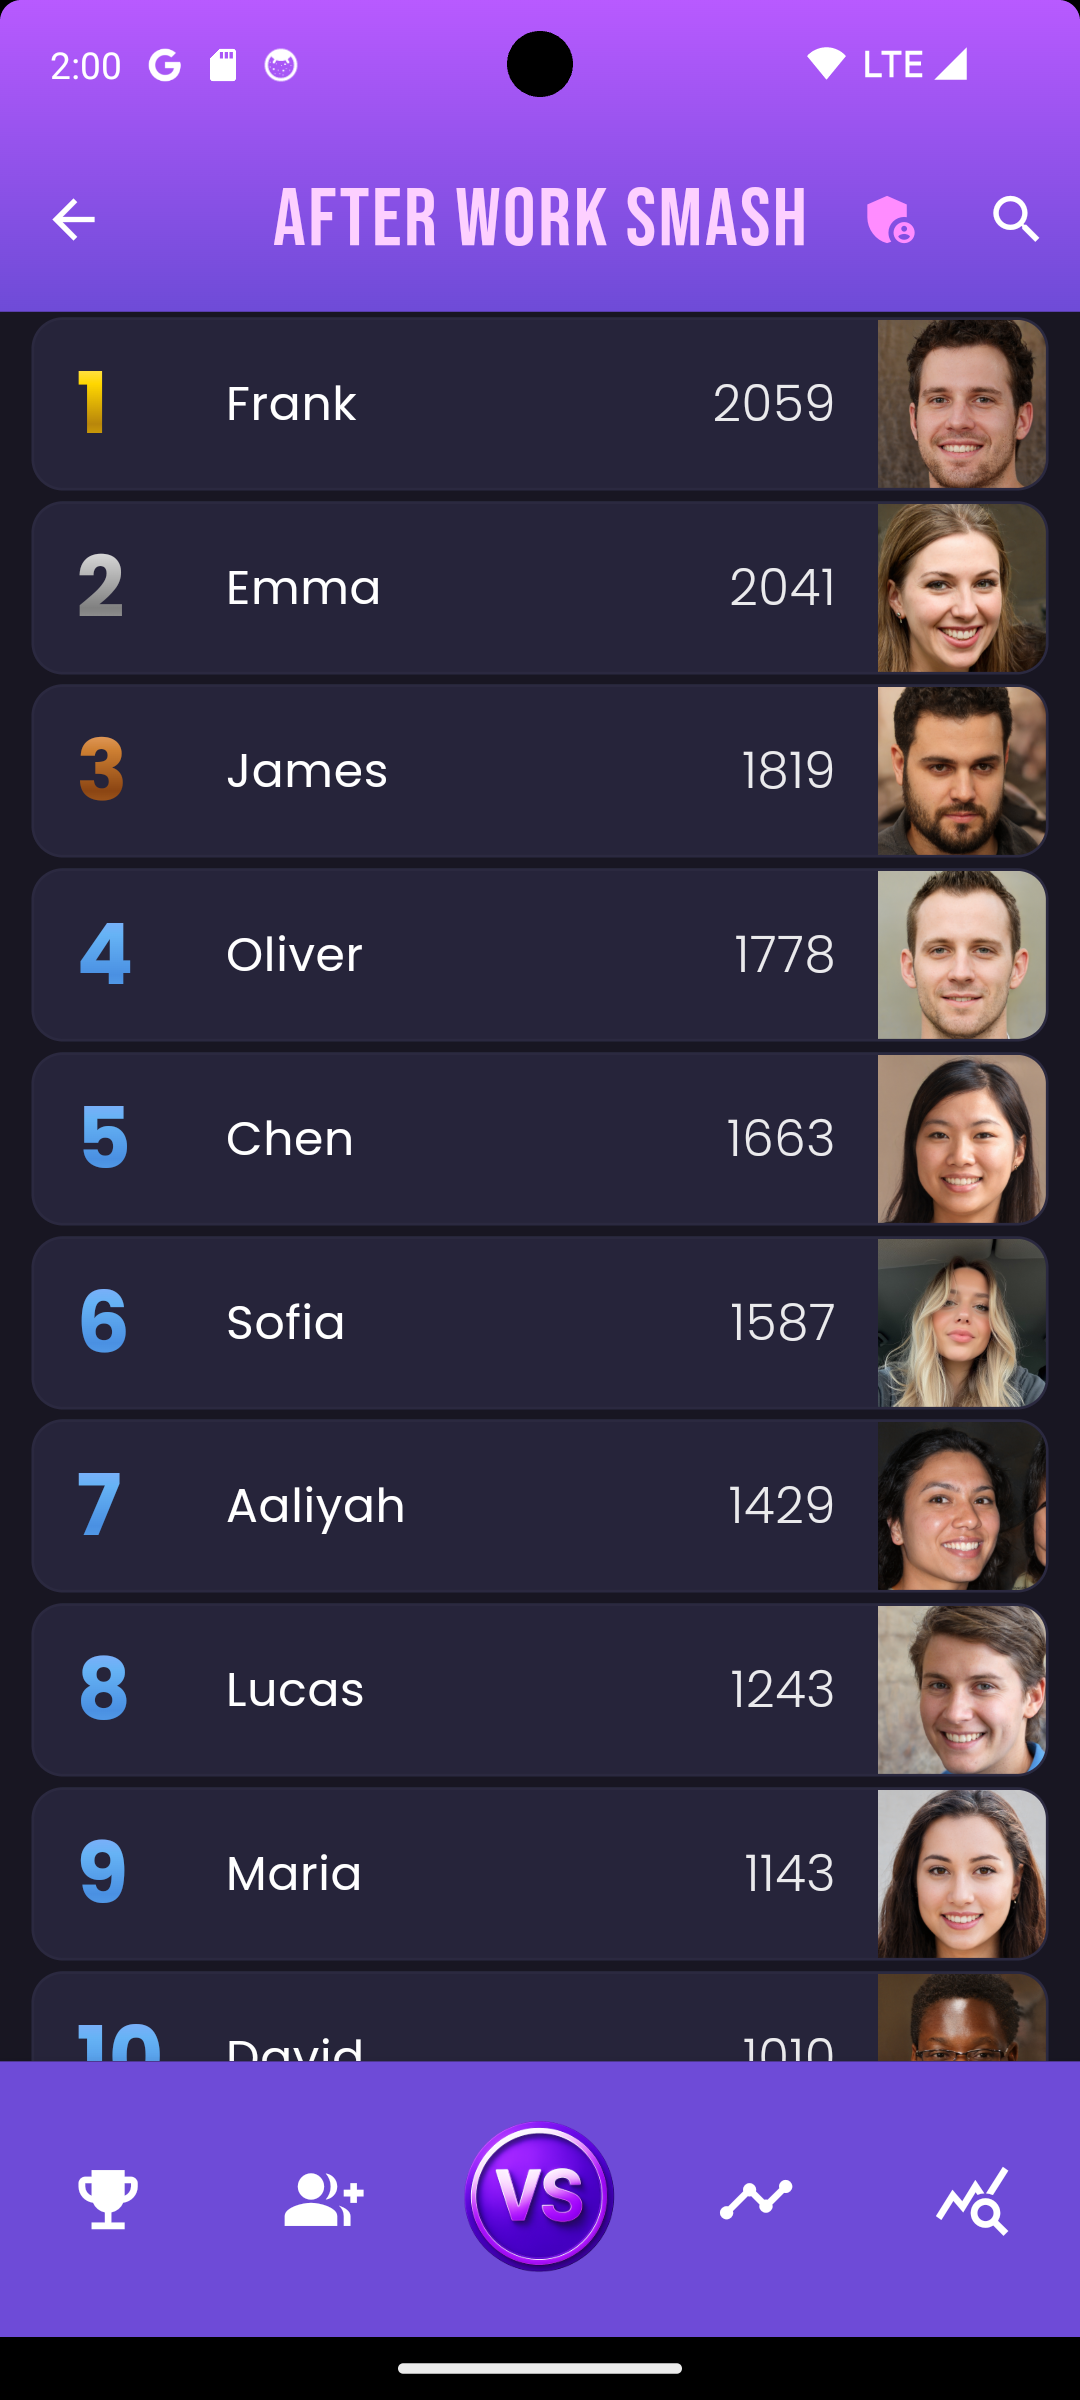
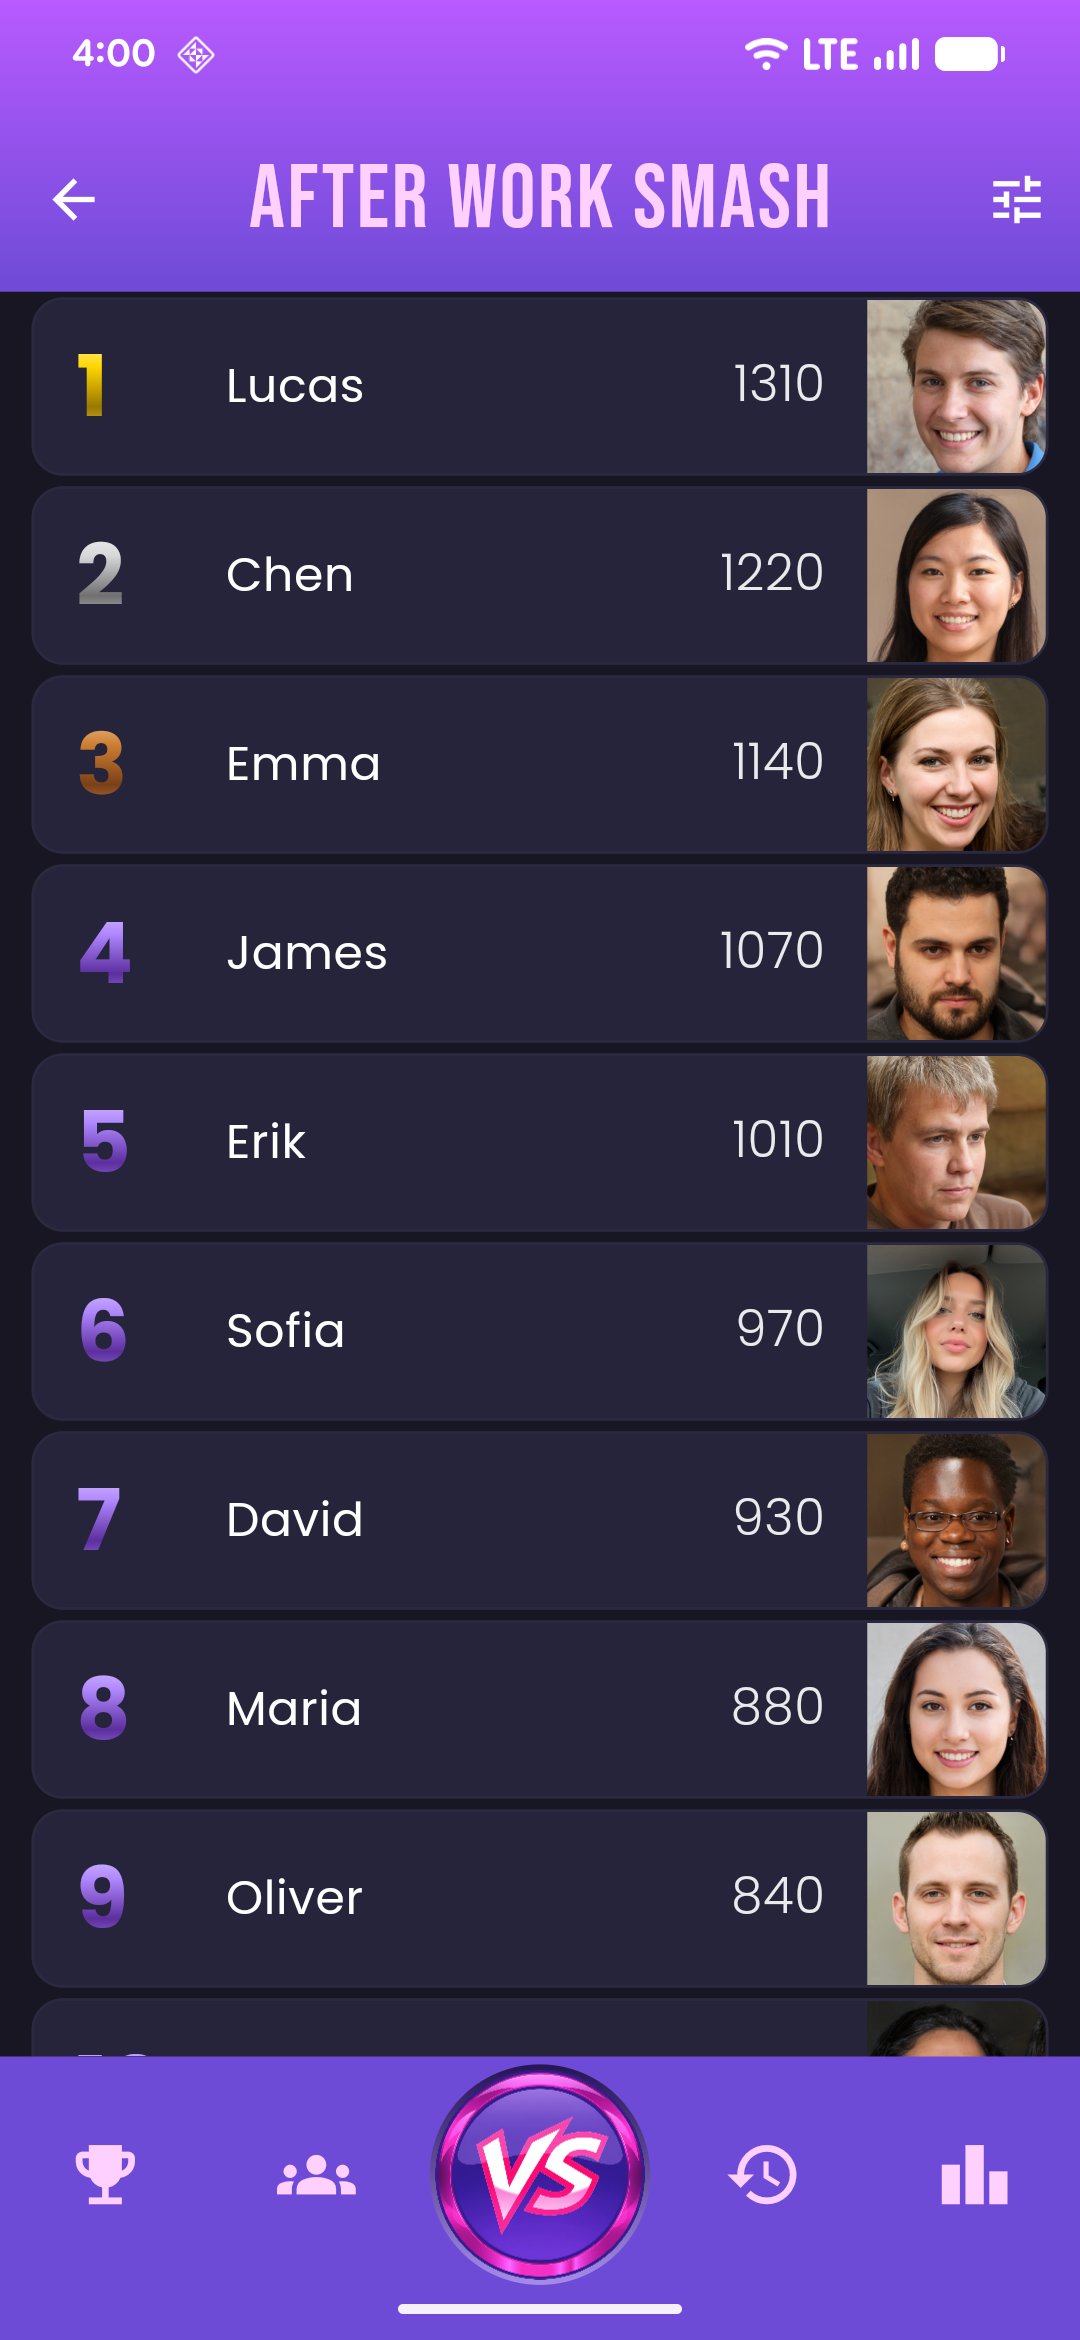
Oppdatering av Privacy, Support og forsiden

diff --git a/app/privacy/page.tsx b/app/privacy/page.tsx
@@ -53,7 +53,7 @@ export default function PrivacyPage() {
             Privacy Policy
           </h1>
           <p className="text-sm text-[#9B95A8]">
-            Last updated: July 2025
+            Last updated: May 2026
           </p>
         </div>
       </section>
@@ -61,60 +61,93 @@ export default function PrivacyPage() {
       {/* Content */}
       <section className="w-full max-w-3xl mx-auto px-4 py-16 flex flex-col gap-6">
         <PolicyCard title="What information we collect">
-          <p className="mb-3">When you sign in with Google, we receive:</p>
+          <p className="mb-3">When you sign in with Google or Apple, we receive:</p>
           <ul className="list-disc list-inside space-y-1 mb-4">
             <li>Your email address</li>
-            <li>Your name</li>
-            <li>Your Google profile ID</li>
+            <li>Your name (when provided by the sign-in provider)</li>
+            <li>A unique provider account ID used to recognize you on return visits</li>
           </ul>
-          <p className="mb-3">When you use the app, you create:</p>
+          <p className="mb-3">When you sign up with email and password, we store your email address and a securely hashed password.</p>
+          <p className="mb-3">When you use the app, the following may be created or stored:</p>
           <ul className="list-disc list-inside space-y-1">
-            <li>Game results and ELO ratings</li>
-            <li>Profile picture (optional, uploaded manually)</li>
+            <li>Profile information: display name, optional country, profile picture (optional, uploaded manually)</li>
+            <li>App language preference, derived from your device locale at sign-up</li>
+            <li>Scoreboards you create or join, including invited members and guest players</li>
+            <li>Match results, ELO ratings, and per-match ELO history</li>
+            <li>Doubles (2v2) team results, head-to-head statistics</li>
+            <li>Chat messages you send inside a scoreboard</li>
+            <li>In-app notifications (invitations, match events)</li>
+            <li>Anonymous usage signals used to decide when to prompt for an app rating</li>
           </ul>
         </PolicyCard>
 
         <PolicyCard title="How we use your information">
           <p className="mb-3">We use this information only to:</p>
           <ul className="list-disc list-inside space-y-1">
-            <li>Identify your account</li>
-            <li>Display your profile in the app</li>
-            <li>Track your game statistics</li>
-            <li>Calculate ELO ratings</li>
+            <li>Identify your account and let you sign back in</li>
+            <li>Display your profile and statistics inside the app</li>
+            <li>Calculate ELO ratings and synchronize scoreboards in real time across devices</li>
+            <li>Deliver invitations and notifications related to your scoreboards</li>
+            <li>Improve the product based on aggregate, non-identifying usage patterns</li>
           </ul>
+          <p className="mt-3">We do not sell your data, do not run third-party advertising, and do not use your data for profiling outside the app.</p>
         </PolicyCard>
 
-        <PolicyCard title="Data storage & deletion">
+        <PolicyCard title="Third-party services">
+          <p className="mb-3">ELO Rankings relies on the following processors to deliver core functionality:</p>
           <ul className="list-disc list-inside space-y-1">
-            <li>Your data is stored securely using Supabase</li>
-            <li>We never share or sell your data</li>
-            <li>You can delete your profile picture at any time</li>
-            <li>For account deletion, please contact us (note: game history shared with other users will be retained)</li>
+            <li><strong>Supabase</strong> &mdash; authentication, database, real-time sync, file storage</li>
+            <li><strong>Google Sign-In</strong> and <strong>Apple Sign In</strong> &mdash; optional account providers</li>
+            <li><strong>Resend</strong> &mdash; transactional emails (invitations, account-related messages)</li>
+            <li><strong>Apple App Store</strong> and <strong>Google Play</strong> &mdash; app distribution and crash reporting</li>
+          </ul>
+          <p className="mt-3">Each provider processes only the data necessary for its function and is bound by its own privacy terms.</p>
+        </PolicyCard>
+
+        <PolicyCard title="Data storage & retention">
+          <ul className="list-disc list-inside space-y-1">
+            <li>Data is stored on Supabase infrastructure inside the EU (eu-north-1)</li>
+            <li>Offline scoreboards (created without signing in) stay on your device only and are never sent to our servers</li>
+            <li>You can change or remove your profile picture at any time</li>
+            <li>If you delete your account, your profile and personal data are removed, but match results and ELO history shared with other scoreboard members may be retained so their statistics remain consistent</li>
           </ul>
         </PolicyCard>
 
-        <PolicyCard title="Delete your account">
-          <p className="mb-3">To delete your ELO Rankings account and all associated data:</p>
-          <p className="mb-3">
-            Please send an email to{' '}
+        <PolicyCard title="Your rights">
+          <p className="mb-3">Under GDPR and similar regulations, you have the right to:</p>
+          <ul className="list-disc list-inside space-y-1">
+            <li>Access the personal data we hold about you</li>
+            <li>Correct inaccurate data (most fields are editable directly in the app)</li>
+            <li>Request deletion of your account and personal data</li>
+            <li>Receive a copy of your data in a portable format</li>
+            <li>Object to or restrict processing</li>
+          </ul>
+          <p className="mt-3">
+            To exercise any of these rights, email{' '}
             <a
               href="mailto:contact.nordicworks@gmail.com"
               className="text-[#B85AFF] hover:underline"
             >
               contact.nordicworks@gmail.com
             </a>
+            . We respond within 30 days.
           </p>
-          <p className="mb-3">Include:</p>
+        </PolicyCard>
+
+        <PolicyCard title="Delete your account">
+          <p className="mb-3">You can delete your ELO Rankings account directly in the app: open your profile, scroll to the bottom, and tap <strong>Delete Account</strong>. Deletion is processed automatically and confirmed on screen.</p>
+          <p className="mb-3">If you cannot access the app, you can request deletion by email instead:</p>
           <ul className="list-disc list-inside space-y-1 mb-4">
-            <li>Your registered email address</li>
-            <li>&quot;Delete my account&quot; in the subject line</li>
+            <li>Send an email to <a href="mailto:contact.nordicworks@gmail.com" className="text-[#B85AFF] hover:underline">contact.nordicworks@gmail.com</a></li>
+            <li>Use the subject &quot;Delete my account&quot;</li>
+            <li>Include your registered email address</li>
           </ul>
-          <p>We will delete your account within 72 hours and send confirmation.</p>
+          <p>Email-based deletion is processed within 72 hours and confirmed by reply.</p>
         </PolicyCard>
 
         <PolicyCard title="Contact">
           <p>
-            For questions or other inquiries:{' '}
+            For privacy questions or other inquiries:{' '}
             <a
               href="mailto:contact.nordicworks@gmail.com"
               className="text-[#B85AFF] hover:underline"

diff --git a/app/support/page.tsx b/app/support/page.tsx
@@ -69,31 +69,47 @@ export default function SupportPage() {
             answer="The ELO system calculates fair ratings based on match results. When a lower-rated player beats a higher-rated player, they gain more points. This means rankings reflect true skill, not just how many games you've played."
           />
           <FaqCard
+            question="Does the app support doubles (2v2)?"
+            answer="Yes. You can register 2v2 matches and each team gets its own ELO rating, separate from singles ratings on the same scoreboard."
+          />
+          <FaqCard
             question="Can I have multiple scoreboards?"
-            answer="Yes! You can create unlimited offline scoreboards and join multiple online scoreboards. Perfect for tracking different games or groups separately."
+            answer="Yes. You can create as many scoreboards as you like for different games or groups. Offline scoreboards are unlimited and stay on your device. Online scoreboards sync across devices and let you invite other people."
+          />
+          <FaqCard
+            question="How do I invite people to my scoreboard?"
+            answer={
+              <>
+                Open the scoreboard, tap the share icon, and choose between a QR code or a link. Anyone who scans or opens the link is taken straight to the scoreboard, even if they don&apos;t have the app installed yet.
+              </>
+            }
+          />
+          <FaqCard
+            question="I was added as a guest. Can I claim my profile?"
+            answer="Yes. If an admin added you as a guest player, you can claim that profile by signing up with your email. Your existing matches, wins, and ELO history are kept and tied to your new account."
+          />
+          <FaqCard
+            question="What languages does the app support?"
+            answer="ELO Rankings is available in 17 languages. The app picks the language from your device settings automatically, and you can change it manually under Settings."
           />
           <FaqCard
             question="Is my data secure?"
-            answer="Your data is stored securely using Supabase with row-level security. We never share or sell your data. Offline scoreboards are stored locally on your device only."
+            answer="Your data is stored securely on Supabase infrastructure inside the EU with row-level security. We never share or sell your data. Offline scoreboards are stored locally on your device only."
           />
           <FaqCard
             question="How do I delete my account?"
             answer={
               <>
-                Go to your profile in the app and tap <strong>Delete Account</strong>. This will permanently remove your account and all associated data. Alternatively, email us at{' '}
+                Go to your profile in the app and tap <strong>Delete Account</strong>. This will permanently remove your account and personal data. Match results and ELO history shared with other scoreboard members may be retained so their statistics stay consistent. If you cannot access the app, email{' '}
                 <a
                   href="mailto:contact.nordicworks@gmail.com"
                   className="text-[#B85AFF] hover:underline"
                 >
                   contact.nordicworks@gmail.com
                 </a>{' '}
-                with the subject &quot;Delete my account&quot; and include your registered email.
+                with the subject &quot;Delete my account&quot; and your registered email.
               </>
             }
-          />
-          <FaqCard
-            question="Does the app support team sports?"
-            answer="Currently, ELO Rankings supports 1v1 competitions only. Team support may be added in future updates."
           />
           <FaqCard
             question="The app isn't working properly. What should I do?"

diff --git a/app/page.tsx b/app/page.tsx
@@ -191,7 +191,7 @@ export default async function Home() {
           >
             <Image
               src="/screenshots/3.png"
-              alt="Register a match between two players"
+              alt="Overview of your scoreboards with top-three podiums"
               width={220}
               height={476}
               className="w-full h-auto"
